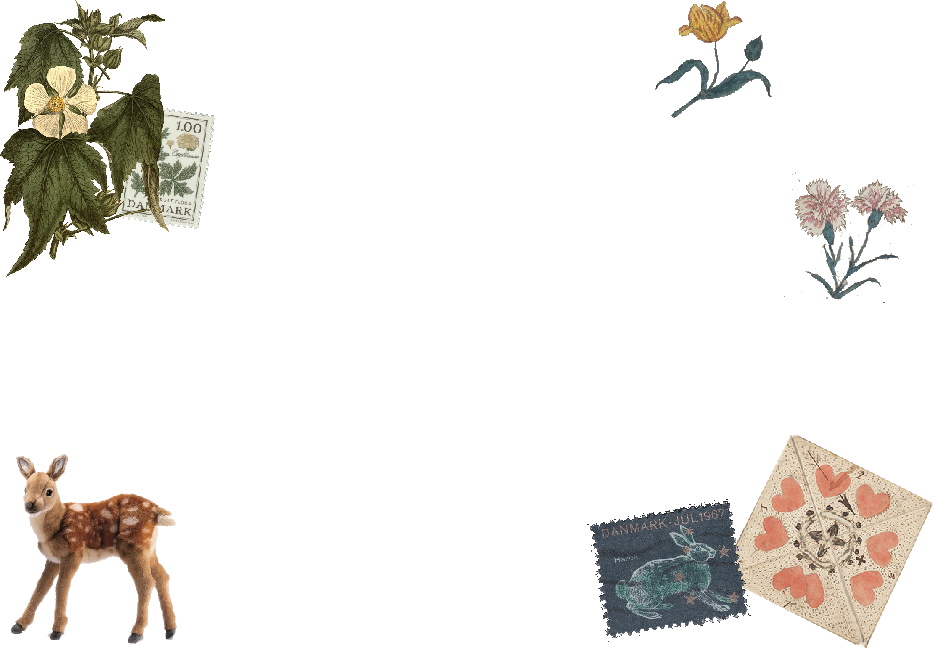
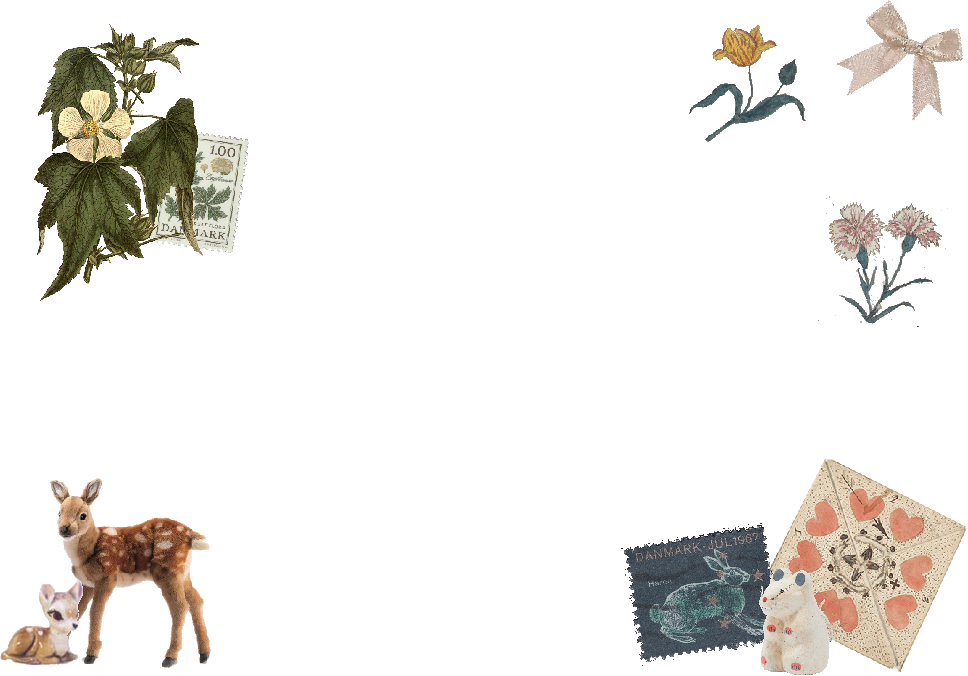
updated profile graphics

diff --git a/public/index.html b/public/index.html
@@ -14,31 +14,74 @@
             <div class="itemContainer">
                 <div class="papercontainer">
                     <div class="listDisplay">
-                        <p>
-                        <header>✷</header>
-                        </p>
-                        <div class="listItem">
-                            <a href=""><img src="./IMG/indexpics/cat1.png">about me</a>
+                        <div class="semiheaderTitle">
+                            <semiheader>✷ links</semiheader>
                         </div>
                         <div class="listItem">
-                            <a href="/ocs.html"><img src="./IMG/indexpics/heartsmall1.png">my ocs</a>
+                            <a href="/about.html">
+                                <div class="listItemPic"><img src="./IMG/indexpics/cat1.png"></div>
+                                <div class="listTextLink">
+                                    <menuLink>
+                                        ♥ about
+                                        <br>
+                                        me
+                                    </menuLink>
+                                </div>
+
+                            </a>
                         </div>
                         <div class="listItem">
-                            <a href=""><img src="./IMG/indexpics/valsmall1.png"> my art</span.a></a>
+                            <a href="/ocs.html">
+                                <div class="listItemPic"><img src="./IMG/indexpics/heartsmall1.png"></div>
+                                <div class="listTextLink">
+                                    <menuLink>
+                                        ♥ my
+                                        <br>
+                                        ocs
+                                    </menuLink>
+                                </div>
+
+                            </a>
                         </div>
                         <div class="listItem">
-                            <a href=""><img src="./IMG/indexpics/skeletonkey1.png"> idk LOL</a>
+                            <a href="">
+                                <div class="listItemPic"><img src="./IMG/indexpics/valsmall1.png"></div>
+                                <div class="listTextLink">
+                                    <menuLink>
+                                        ♥ my
+                                        <br>
+                                        art
+                                    </menuLink>
+                                </div>
+
+                            </a>
+                        </div>
+                        <div class="listItem">
+                            <a href="">
+                                <div class="listItemPic"><img src="./IMG/indexpics/skeletonkey1.png"></div>
+                                <div class="listTextLink">
+                                    <menuLink>
+                                        ♥ more
+                                        <br>
+                                        links
+                                    </menuLink>
+                                </div>
+
+                            </a>
                         </div>
                     </div>
+                    <img class="rightAccessories" src="./IMG/indexpics/bg_accessoriesSide.png">
                 </div>
                 <div class="cardcontainer">
                     <img class="portrait_img" src="">
                     <img class="frame" src="./IMG/indexpics/photoframe.png">
                     <img class="accessories" src="./IMG/indexpics/bg_accessories.png">
+                    <img class="fairy" src="./IMG/gifs/gif_fairy5.gif">
+                    <img class="fairy2" src="./IMG/gifs/gif_fairy3.gif">
                     <img class="rockinghorse" src="./IMG/gifs/gif_rockinghorse1.gif">
                     <div class="textbox">
                         <p>
-                            <semiHeader>☙ welcome to my site</semiHeader>
+                        <header>☙ welcome</header>
                         </p>
                         <div align="center">
                             <p>

diff --git a/public/index.css b/public/index.css
@@ -1,7 +1,5 @@
 body {
-    /* overflow-x: hidden; */
     font-family: 'ヒラギノ角ゴ Pro W3', 'Hiragino Kaku Gothic Pro', 'メイリオ', Meiryo, 'ＭＳ Ｐゴシック', Osaka, sans-serif;
-    /* font-family: 'Times New Roman', Times, serif; */
     font-size: 13px;
     letter-spacing: 0.1px;
     color: #1f1910;
@@ -14,8 +12,6 @@ body {
 
     background-color: rgb(192, 181, 172);
     background-blend-mode: soft-light;
-    /* margin-left: 10%;
-    margin-right: 10%; */
 }
 
 a:link,
@@ -38,17 +34,30 @@ a:active {
 }
 
 header,
-semiHeader {
+semiHeader, menuLink {
     font-family: Times, Times, Times New Roman, serif;
-    font-size: 30px;
-    letter-spacing: 1px;
+    font-size: 40px;
+    letter-spacing: 2px;
 
     font-weight: bold;
-    text-transform: lowercase;
+    text-transform: uppercase;
+    font-style: italic;
 
     color: #966c1f;
 
     padding: 2px;
+}
+
+semiheader {
+    margin-top: 50%;
+    font-size: 25px;
+    color: #5f7c9e;
+}
+
+menuLink {
+    color: #a36e61;
+    font-size: 15px;
+    text-transform: lowercase;
 }
 
 /*                 CUSTOM SCROLLBAR                 */
@@ -69,7 +78,6 @@ div::-webkit-scrollbar-thumb {
     position: relative;
     width: 100%;
     min-height: 100vh;
-    /* padding-left: 50px; */
     padding-right: 50px;
     display: grid;
     place-items: center;
@@ -118,16 +126,29 @@ div::-webkit-scrollbar-thumb {
     flex-direction: column;
 
     top: 5%;
-    right: 0%;
+    right: 6%;
     width: 180px;
     height: 550px;
 
-    padding: 10px;
+    padding: 15px;
+    justify-content: center;
 }
 
 .listItem {
     margin: 5px;
     padding: 5px;
+    display: inline-block;
+    font-style: italic;
+}
+
+.listItemPic{
+    display: inline-block;
+}
+
+.listTextLink {
+    display: inline-block;
+    margin-left: 5px;
+    text-align: center;
 }
 
 /*                 BEGINNING OF PAPER IMAGES & POSITIONABLE ITEMS                  */
@@ -144,11 +165,12 @@ div::-webkit-scrollbar-thumb {
     height: 330px;
     width: 180px;
 
-    background-image: url('./IMG/faust/faustrecolor1.png');
-    background-size: 400px;
-    background-position: right;
+    background-image: url('./IMG/indexpics/vhd1.jpg');
+    background-size: 300px;
+    background-position: center;
 
-    background-color: #1f1910;
+    background-color: rgba(192, 181, 172, 0.5);
+    background-blend-mode: soft-light;
 }
 
 .frame {
@@ -158,15 +180,43 @@ div::-webkit-scrollbar-thumb {
     left: 15%;
 }
 
+.rightAccessories {
+    position: absolute;
+    z-index: 1;
+
+    right: 0;
+    top: -5%;
+}
+
 
 .accessories {
     position: absolute;
     z-index: 4;
+
+    bottom: -5%;
+    left: -5%;
+}
+
+.fairy {
+    position: absolute;
+    z-index: 4;
+
+    top: -18%;
+    right: -2%;
+}
+
+.fairy2 {
+    position: absolute;
+    z-index: 4;
+
+    top: 50%;
+    left: -7%;
 }
 
 .rockinghorse {
     position: absolute;
     z-index: 5;
+
     top: -10%;
     right: 5%;
 }
